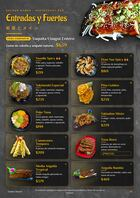
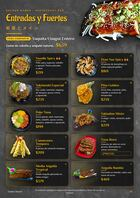
Fotos completas con plato: Entradas y Fuertes
Claude-Session: https://claude.ai/code/session_019koabpyAAMnZPtrZYFtJVk

diff --git a/index.html b/index.html
@@ -53,10 +53,10 @@ for(let i=1;i<=N;i++){
   const d=document.createElement('div');
   d.className='page'+((i===1||i===N)?' hard':'');
   if(i===1||i===N) d.setAttribute('data-density','hard');
-  d.innerHTML=`<img src="p${pad(i)}.jpg?v=1794816174" alt="Página ${i} del menú Golden Ramen" ${i>4?'loading="lazy"':''}>`;
+  d.innerHTML=`<img src="p${pad(i)}.jpg?v=1794816292" alt="Página ${i} del menú Golden Ramen" ${i>4?'loading="lazy"':''}>`;
   book.appendChild(d);
   const t=document.createElement('button'); t.className='th'; t.setAttribute('aria-label','Ir a la página '+i);
-  t.innerHTML=`<img src="t${pad(i)}.jpg?v=1794816174" alt="">`; t.onclick=()=>pf&&pf.flip(i-1);
+  t.innerHTML=`<img src="t${pad(i)}.jpg?v=1794816292" alt="">`; t.onclick=()=>pf&&pf.flip(i-1);
   thumbs.appendChild(t);
 }
 let pf=null; let lastW=innerWidth; addEventListener('resize',()=>{ if(Math.abs(innerWidth-lastW)>80){ location.reload(); } });
